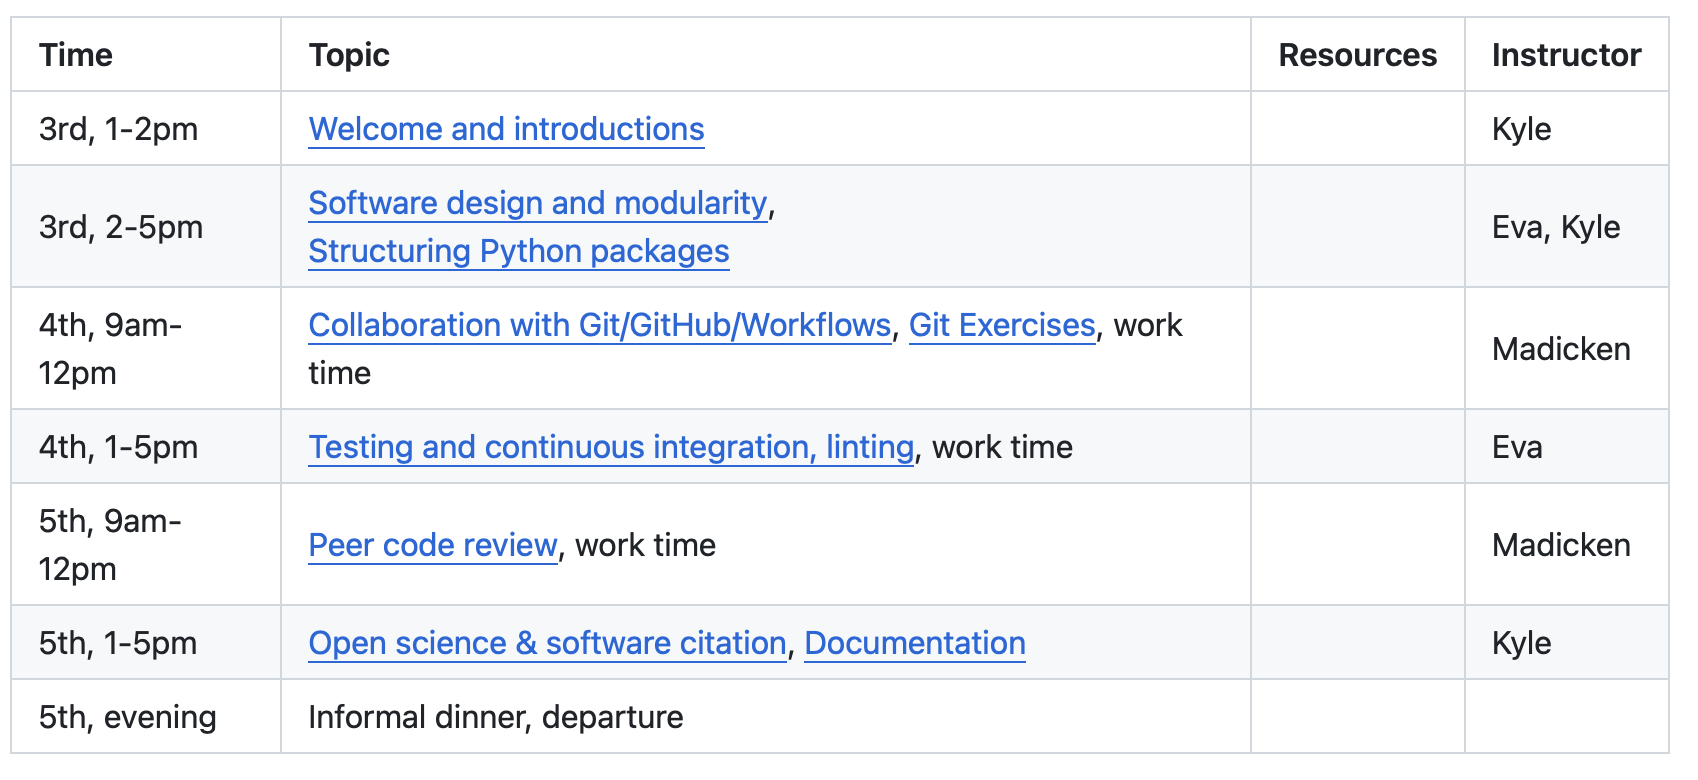
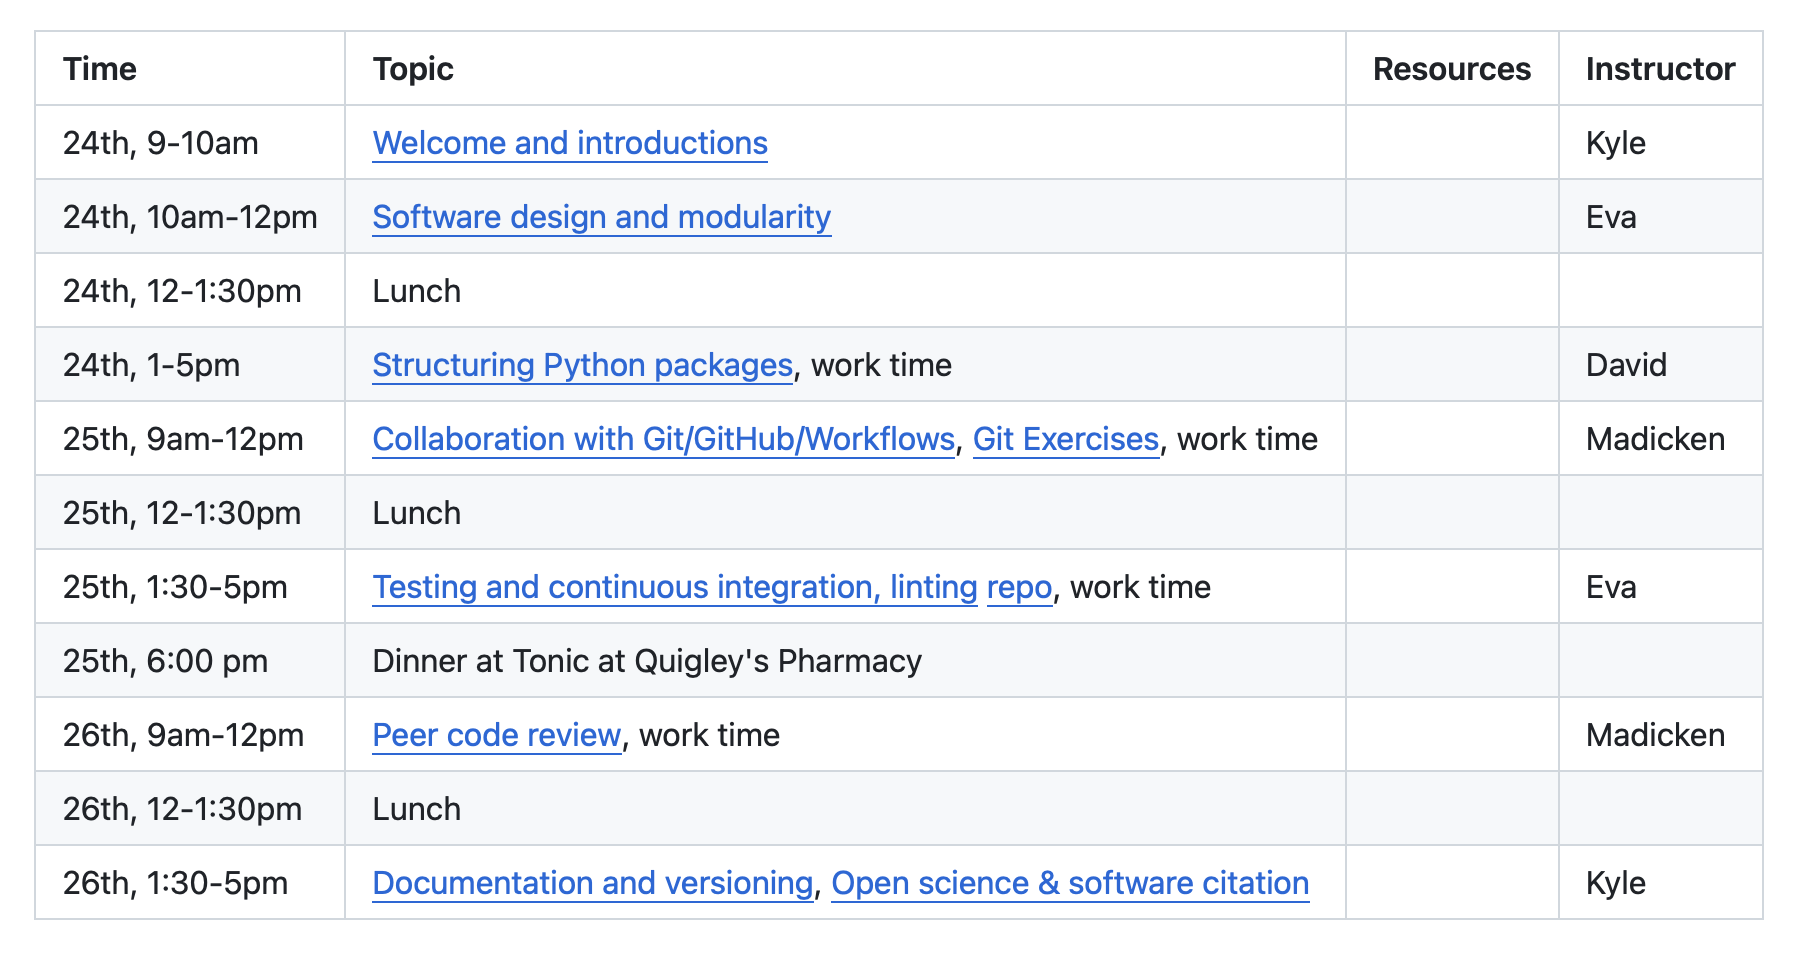
updates for june 2024 school

diff --git a/intro-slides/index.html b/intro-slides/index.html
@@ -31,17 +31,17 @@
                     <textarea data-template>
                         <img src="./images/URSSI-TRANS.png" height="200" alt="URSSI logo">
                         
-                        ## Welcome to the 2024 URSSI Winter School!
+                        ## Welcome to the 2024 URSSI Summer School!
                     </textarea>
                 </section>
 
                 <section>
-                    <h3>Winter school links</h3>
+                    <h3>Summer school links</h3>
                     <br/>
                     <div style="font-size:30px">
-                    <p>Gitter chatroom: <code>https://matrix.to/#/#urssi-winterschool:gitter.im</code></p>
-                    <p>HackMD notepad: <code>https://hackmd.io/@kyleniemeyer/SkoP3GmOT/edit</code></p>
-                    <p>Wifi: <code>Visitor</code> or <code>eduroam</code></p>
+                    <p>Gitter chatroom: <code>https://matrix.to/#/#urssi-summerschool2024:gitter.im</code></p>
+                    <p>HackMD notepad: <code>https://hackmd.io/@kyleniemeyer/rkyebVQ8A/edit</code></p>
+                    <p>Wifi: <code>eduroam</code> or <code>GWConnect</code></p>
                     </div>
                 </section>
 
@@ -49,7 +49,7 @@
                     <textarea data-template>
                         ## Code of Conduct
 
-                        <code>https://github.com/si2-urssi/winterschool-Jan2024</code>
+                        <code>https://github.com/si2-urssi/summerschool-June2024/</code>
 
                         <img src="./images/coc-screenshot.png" height="400" alt="Screenshot of code of conduct">
                     </textarea>
@@ -57,9 +57,17 @@
                 
                 <section data-markdown>
                     <textarea data-template>
-                        ## Instructors and TAs
+                        ## Instructors and organizers
 
                         <img src="./images/instructors.png" height="400" alt="Photos of instructors">
+                    </textarea>
+                </section>
+
+                <section data-markdown>
+                    <textarea data-template>
+                        ## TAs / aids
+
+                        <img src="./images/aids.png" height="400" alt="Photos of aids">
                     </textarea>
                 </section>
 
@@ -73,7 +81,7 @@
 
                 <section>
                     <h3>Schedule and plan for the next few days</h3>
-                    <code>github.com/si2-urssi/winterschool-Jan2024</code>
+                    <code>github.com/si2-urssi/summerschool-June2024/</code>
                     <img src="./images/schedule.png" height="400" alt="Schedule for event">
                 </section>
 
